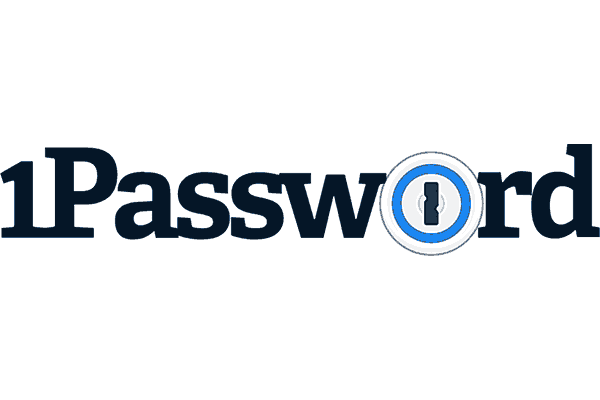
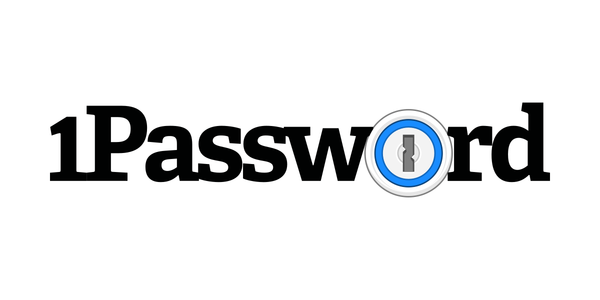
added another sponsor (1Password)

Changed region(s): [[0.0, 0.33, 1.0, 0.66]]

diff --git a/index.html b/index.html
@@ -161,6 +161,7 @@
       <div id = "sponsorsTitle">Our Sponsors</div>
       <div id = "sponsorsSection">
         <a href = "https://www.echo3d.com/" target = "_blank"><img class = "allSponsors" src = "Images/Echo3d.png" alt = "Echo3D Logo"></a>
+        <a href = "https://1password.com/" target = "_blank"><img class = "allSponsors" src = "Images/1Password.png" alt = "1Password Logo"></a>
       </div>
       <div id = "waveSection">
         <div class="custom-shape-divider-top-1690928188">

diff --git a/styles.css b/styles.css
@@ -755,11 +755,13 @@ html, body {
 	justify-content: center;
 	background-color: rgb(84, 26, 105);
 	padding-bottom: 100px;
+	flex-wrap: wrap;
 }
 
 .allSponsors{
 	height: 250px;
 	width: auto;
+	margin: 20px;
 }
 
 #sponsorsTitle{
